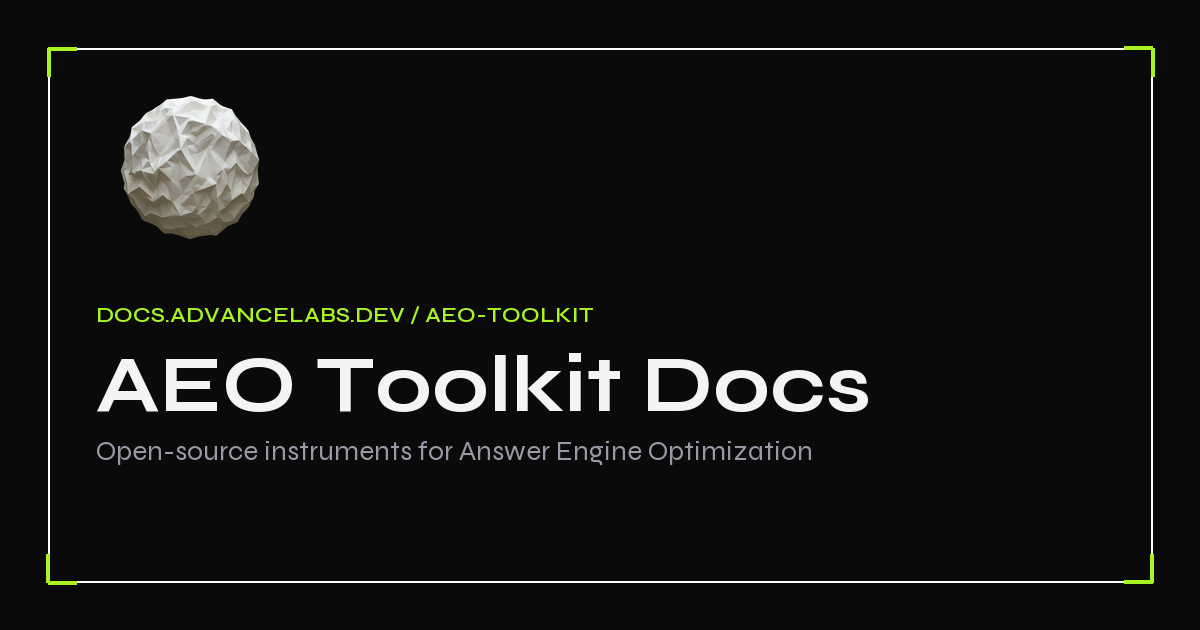
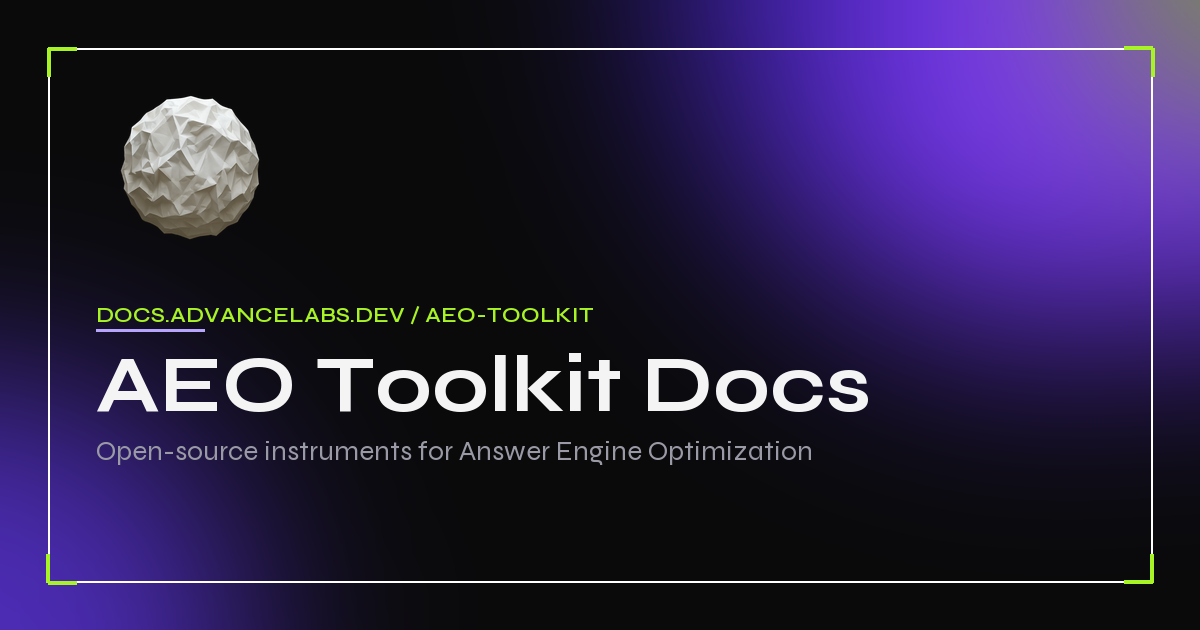
design(brand): violet secondary accents in the docs site and repo media
The landing's violet (#B6A4FD / #7C3AED) joins the docs theme as the
secondary: links, inline code, blockquote and table rules, and a
violet-to-signal hairline under the header. The share images (docs OG,
GitHub social preview) get the landing's soft violet wash behind the ink
ground. README adds a violet "Made by Advance Labs" badge and a
BRAND.md badge.

diff --git a/apps/docs/src/styles/brand.css b/apps/docs/src/styles/brand.css
@@ -54,3 +54,35 @@ h1#_top {
   letter-spacing: 0.08em;
   text-transform: uppercase;
 }
+
+/* Secondary accent: the site's violet (#B6A4FD / #7C3AED). Signal stays for the one thing that
+   matters on a page; violet carries links, inline code, and the quiet structural glow. */
+:root {
+  --aeo-violet: #b6a4fd;
+  --aeo-violet-deep: #7c3aed;
+}
+.sl-markdown-content a:not(.sl-anchor-link) {
+  color: var(--aeo-violet);
+  text-decoration-color: color-mix(in srgb, var(--aeo-violet) 45%, transparent);
+}
+.sl-markdown-content a:not(.sl-anchor-link):hover {
+  color: var(--sl-color-accent-high);
+}
+.sl-markdown-content code:not(pre code) {
+  color: var(--aeo-violet);
+  background: color-mix(in srgb, var(--aeo-violet) 12%, transparent);
+}
+.sl-markdown-content blockquote {
+  border-inline-start-color: var(--aeo-violet-deep);
+}
+.sl-markdown-content th {
+  border-bottom: 1px solid color-mix(in srgb, var(--aeo-violet) 40%, transparent);
+}
+/* A faint violet-to-signal rule under the header, like the shader wash on the landing. */
+header.header {
+  border-bottom: 1px solid transparent;
+  border-image: linear-gradient(90deg, var(--aeo-violet-deep), var(--aeo-violet) 45%, var(--sl-color-accent) 100%) 1;
+}
+:root[data-theme='light'] {
+  --aeo-violet: #6d4bd8;
+}

diff --git a/README.md b/README.md
@@ -11,7 +11,8 @@
 
 [![TypeScript](https://img.shields.io/badge/TypeScript-5.x-3178C6?style=flat-square&logo=typescript&logoColor=white)](https://typescriptlang.org)
 [![License: MIT](https://img.shields.io/badge/License-MIT-A8F326?style=flat-square&labelColor=0A0A0B)](LICENSE)
-[![Made by Advance Labs](https://img.shields.io/badge/Made%20by-Advance%20Labs-A8F326?style=flat-square&labelColor=0A0A0B)](https://advancelabs.dev)
+[![Made by Advance Labs](https://img.shields.io/badge/Made%20by-Advance%20Labs-7C3AED?style=flat-square&labelColor=0A0A0B)](https://advancelabs.dev)
+[![Design system](https://img.shields.io/badge/Design-BRAND.md-B6A4FD?style=flat-square&labelColor=0A0A0B)](docs/BRAND.md)
 
 </div>
 
